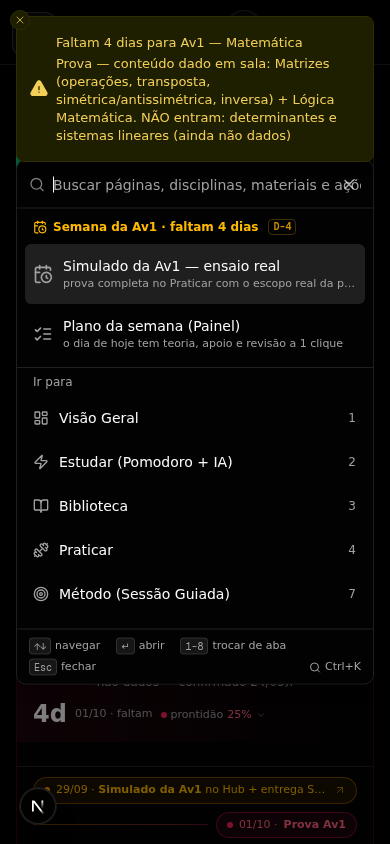
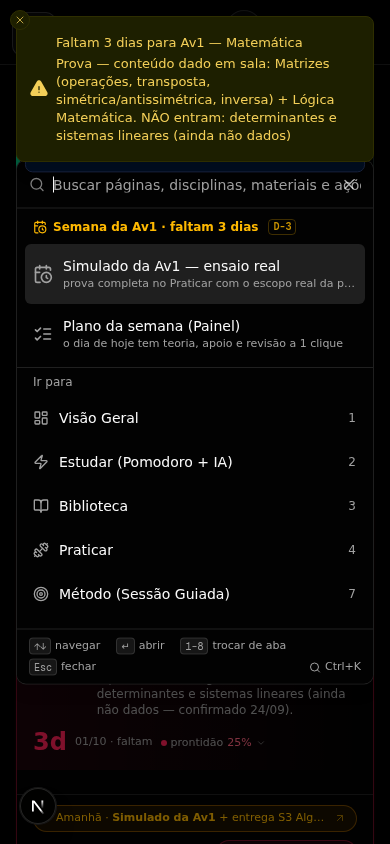
feat: A VARREDURA DA FROTA — a lição da 127 virou método e caçou a gripe sazonal: t98/t100/t101 estavam VERMELHAS com a mesma família da 118, o DATA-ROT — fases escritas no dia em que o relógio real era D-4 (27/09) que seguem esperando 'faltam 4 dias'/'D-4'/plano 'Parte 1 (Q1' para sempre; hoje (D-3

diff --git a/src/components/hub/exam-prep-card.tsx b/src/components/hub/exam-prep-card.tsx
@@ -1619,6 +1619,19 @@ function VesperaKit({
         ? 'border-emerald-500/40 bg-emerald-500/10 text-emerald-700 dark:border-emerald-500/40 dark:bg-emerald-500/10 dark:text-emerald-300'
         : 'border-indigo-400/40 bg-indigo-500/10 text-indigo-600 dark:text-indigo-300';
 
+  // A INTRO FALA O DIA (128): a linha era escrita para a véspera DA PROVA e
+  // viajava para os outros dias — na véspera DO ENSAIO 'a prova' nomeava o dia
+  // errado (a 122 corrigiu o banner deste dia; a intro ficou para trás). A
+  // mesma régua do contextBadge: cada dia diz a sua verdade, com calma.
+  const kitIntro =
+    daysLeft === 3
+      ? 'O ensaio de amanhã mede o que já está no seu preparo — estes passos fecham o que falta e guardam o resto para o sono.'
+      : daysLeft === 2
+        ? 'O ensaio já mediu o seu preparo — estes passos apontam o que fechar primeiro, com calma.'
+        : daysLeft === 1
+          ? 'A prova já está no seu preparo — estes passos fecham o que falta e guardam o resto para o sono.'
+          : 'Hoje é o dia — só reler e respirar; nada novo entra hoje.';
+
   const rows: {
     icon: typeof Moon;
     title: string;
@@ -1868,8 +1881,7 @@ function VesperaKit({
             </Badge>
           </h3>
           <p className="mt-0.5 text-[11px] leading-relaxed text-muted-foreground">
-            A prova já está no seu preparo — estes passos fecham o que falta e guardam o resto
-            para o sono.
+            {kitIntro}
           </p>
         </div>
       </div>
